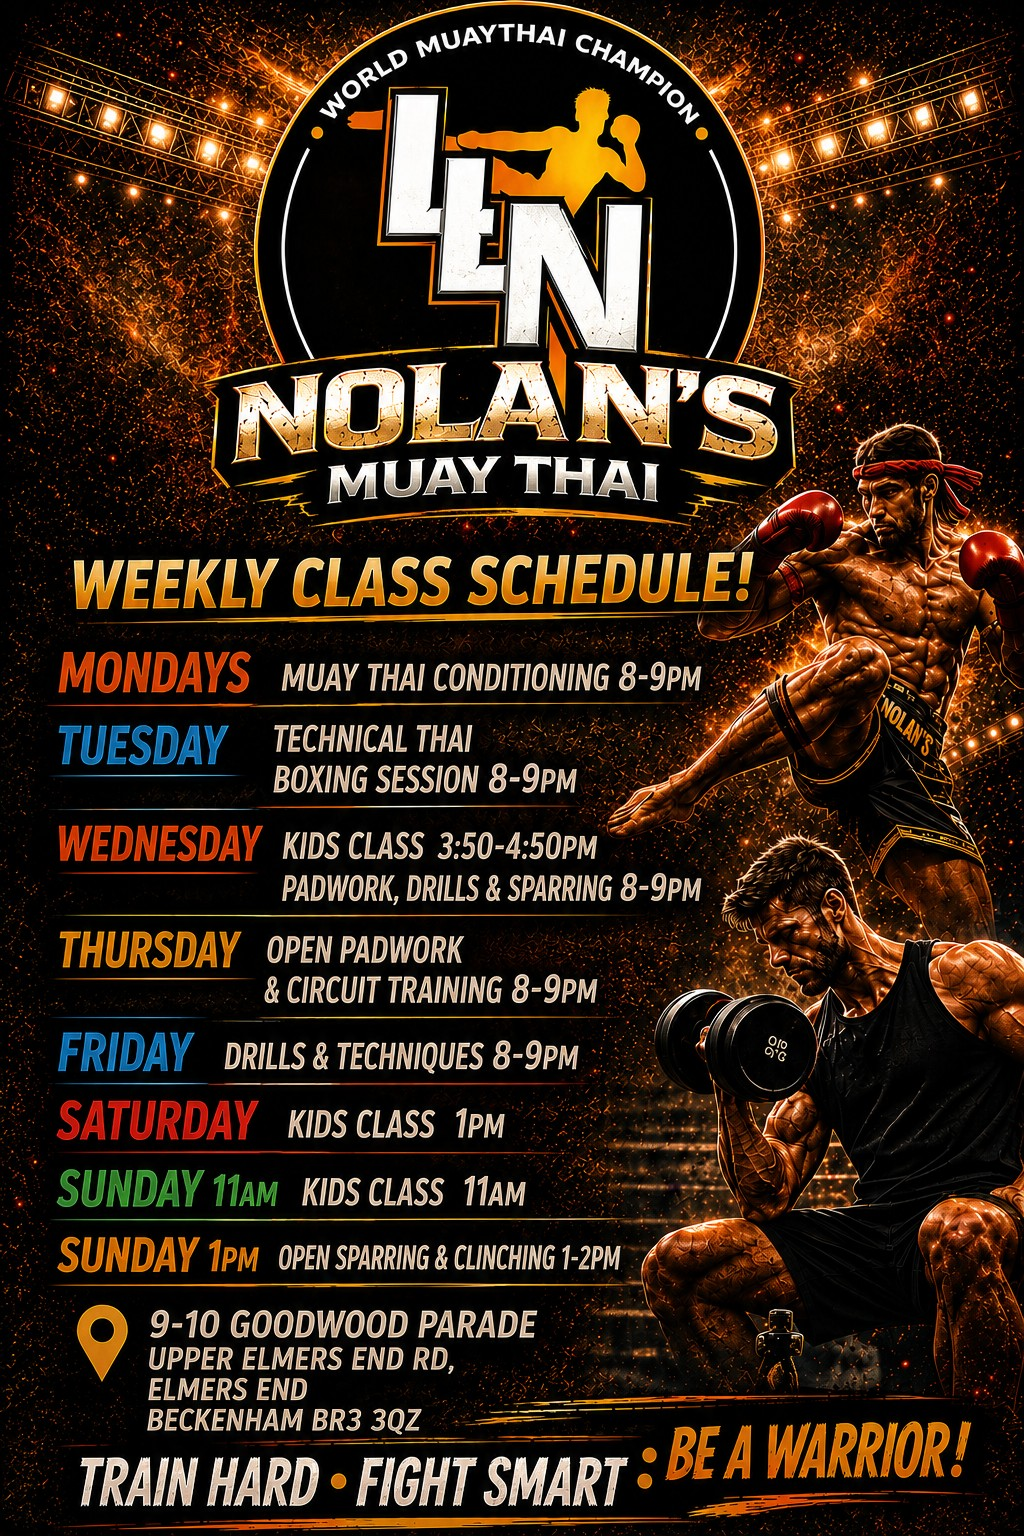
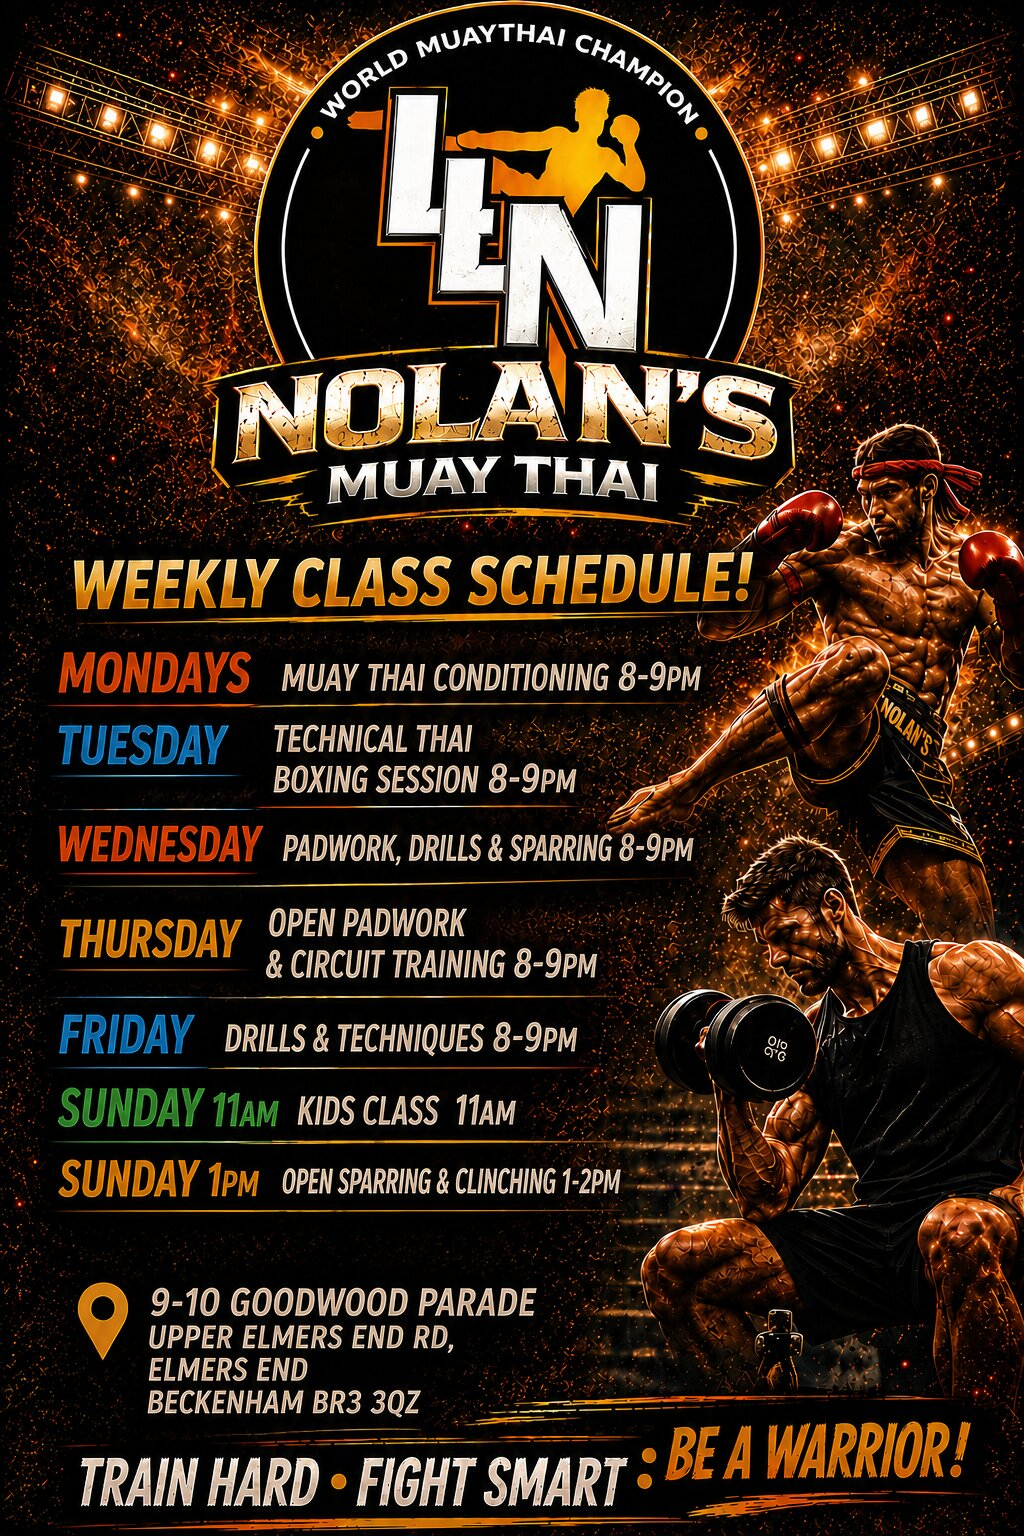
Update weekly schedule poster, drop Wed/Sat kids classes
New timetable poster uploaded by owner; Wednesday 3:50pm and Saturday
1pm kids classes are no longer running and have been removed from the
schedule list, hours tables, openingHoursSpecification schema, FAQ
answer, Course description, and Event schema/timetable on the junior
classes page. Sunday 11am kids class and 1pm open sparring unchanged.

Claude-Session: https://claude.ai/code/session_01CtSXaqRt8o1dHHznE2n9JN

diff --git a/junior-muay-thai.html b/junior-muay-thai.html
@@ -4,7 +4,7 @@
   <meta charset="UTF-8">
   <meta name="viewport" content="width=device-width, initial-scale=1.0">
   <title>Junior Muay Thai Classes for Kids | Beckenham, Bromley &amp; South East London</title>
-  <meta name="description" content="Kids Muay Thai &amp; martial arts classes in Beckenham, South London every Wednesday, Saturday &amp; Sunday. DBS-checked coaches. Serving Bromley &amp; South East London. Discipline &amp; fitness for young fighters.">
+  <meta name="description" content="Kids Muay Thai &amp; martial arts classes in Beckenham, South London every Sunday. DBS-checked coaches. Serving Bromley &amp; South East London. Discipline &amp; fitness for young fighters.">
   <meta name="keywords" content="Muay Thai, martial arts, Thai boxing, combat sports, self defence, Beckenham, South London, Bromley, Penge, Crystal Palace, West Wickham, Orpington, Sydenham, Catford, Shortlands, Chislehurst, Anerley, Elmers End, South East London">
   <meta name="geo.region" content="GB-LND">
   <meta name="geo.placename" content="Beckenham, South London">
@@ -26,14 +26,14 @@
   <meta http-equiv="X-Frame-Options" content="SAMEORIGIN">
   <meta name="referrer" content="strict-origin-when-cross-origin">
   <meta property="og:title" content="Junior Martial Arts &amp; Muay Thai Classes for Kids | Beckenham, South London">
-  <meta property="og:description" content="Kids martial arts &amp; Muay Thai classes in Beckenham every Wednesday, Saturday &amp; Sunday. DBS-checked professional coaches. Self-defence, discipline &amp; fitness for young fighters.">
+  <meta property="og:description" content="Kids martial arts &amp; Muay Thai classes in Beckenham every Sunday. DBS-checked professional coaches. Self-defence, discipline &amp; fitness for young fighters.">
   <meta property="og:image" content="https://nolanmuaythai.com/images/matt-kids-training.jpg">
   <meta property="og:url" content="https://nolanmuaythai.com/junior-muay-thai.html">
   <meta property="og:type" content="website">
   <meta property="og:site_name" content="Nolan Muay Thai">
   <meta name="twitter:card" content="summary_large_image">
   <meta name="twitter:title" content="Junior Martial Arts &amp; Muay Thai Classes for Kids | Beckenham, South London">
-  <meta name="twitter:description" content="Kids martial arts &amp; Muay Thai classes in Beckenham every Wednesday, Saturday &amp; Sunday. DBS-checked professional coaches. Self-defence, discipline &amp; fitness for young fighters.">
+  <meta name="twitter:description" content="Kids martial arts &amp; Muay Thai classes in Beckenham every Sunday. DBS-checked professional coaches. Self-defence, discipline &amp; fitness for young fighters.">
   <meta name="twitter:image" content="https://nolanmuaythai.com/images/matt-kids-training.jpg">
 <!-- Google tag (gtag.js) -->
   <script type="application/ld+json">
@@ -48,54 +48,6 @@
       "byDay": "https://schema.org/Sunday",
       "startTime": "11:00",
       "endTime": "12:00",
-      "repeatFrequency": "P1W"
-    },
-    "location": {
-      "@type": "Place",
-      "name": "Nolan Muay Thai — Goodwood Parade",
-      "address": {"@type": "PostalAddress", "streetAddress": "9-10 Goodwood Parade, Upper Elmers End Rd, Elmers End", "addressLocality": "Beckenham", "postalCode": "BR3 3QZ", "addressCountry": "GB"}
-    },
-    "organizer": {"@type": "Organization", "name": "Nolan Muay Thai", "url": "https://nolanmuaythai.com"},
-    "eventAttendanceMode": "https://schema.org/OfflineEventAttendanceMode",
-    "eventStatus": "https://schema.org/EventScheduled"
-  }
-  </script>
-  <script type="application/ld+json">
-  {
-    "@context": "https://schema.org",
-    "@type": "Event",
-    "name": "Junior Muay Thai Class (Wednesday) — Kids Martial Arts Beckenham",
-    "description": "Midweek kids Muay Thai class for children in Beckenham, South London. DBS-checked coaches. Builds discipline, confidence and fitness.",
-    "eventSchedule": {
-      "@type": "Schedule",
-      "startDate": "2026-08-05",
-      "byDay": "https://schema.org/Wednesday",
-      "startTime": "15:50",
-      "endTime": "16:50",
-      "repeatFrequency": "P1W"
-    },
-    "location": {
-      "@type": "Place",
-      "name": "Nolan Muay Thai — Goodwood Parade",
-      "address": {"@type": "PostalAddress", "streetAddress": "9-10 Goodwood Parade, Upper Elmers End Rd, Elmers End", "addressLocality": "Beckenham", "postalCode": "BR3 3QZ", "addressCountry": "GB"}
-    },
-    "organizer": {"@type": "Organization", "name": "Nolan Muay Thai", "url": "https://nolanmuaythai.com"},
-    "eventAttendanceMode": "https://schema.org/OfflineEventAttendanceMode",
-    "eventStatus": "https://schema.org/EventScheduled"
-  }
-  </script>
-  <script type="application/ld+json">
-  {
-    "@context": "https://schema.org",
-    "@type": "Event",
-    "name": "Junior Muay Thai Class (Saturday) — Kids Martial Arts Beckenham",
-    "description": "Saturday kids Muay Thai class for children in Beckenham, South London. DBS-checked coaches. Builds discipline, confidence and fitness.",
-    "eventSchedule": {
-      "@type": "Schedule",
-      "startDate": "2026-08-01",
-      "byDay": "https://schema.org/Saturday",
-      "startTime": "13:00",
-      "endTime": "14:00",
       "repeatFrequency": "P1W"
     },
     "location": {
@@ -210,16 +162,6 @@
                 </tr>
               </thead>
               <tbody>
-                <tr style="border-bottom:1px solid rgba(255,255,255,.08)">
-                  <td style="padding:12px 20px"><strong>Wednesday</strong></td>
-                  <td style="padding:12px 20px">3:50 – 4:50 PM</td>
-                  <td style="padding:12px 20px;opacity:.85">Kids Muay Thai</td>
-                </tr>
-                <tr style="border-bottom:1px solid rgba(255,255,255,.08)">
-                  <td style="padding:12px 20px"><strong>Saturday</strong></td>
-                  <td style="padding:12px 20px">1:00 – 2:00 PM</td>
-                  <td style="padding:12px 20px;opacity:.85">Kids Muay Thai</td>
-                </tr>
                 <tr>
                   <td style="padding:12px 20px"><strong>Sunday</strong></td>
                   <td style="padding:12px 20px">11:00 AM – 12:00 PM</td>

diff --git a/index.html b/index.html
@@ -59,8 +59,6 @@
     },
     "openingHoursSpecification": [
       {"@type": "OpeningHoursSpecification", "dayOfWeek": ["Monday","Tuesday","Wednesday","Thursday","Friday"], "opens": "20:00", "closes": "21:00"},
-      {"@type": "OpeningHoursSpecification", "dayOfWeek": "Wednesday", "opens": "15:50", "closes": "16:50"},
-      {"@type": "OpeningHoursSpecification", "dayOfWeek": "Saturday", "opens": "13:00", "closes": "14:00"},
       {"@type": "OpeningHoursSpecification", "dayOfWeek": "Sunday", "opens": "11:00", "closes": "14:00"}
     ],
     "sameAs": [
@@ -119,7 +117,7 @@
         "name": "What age are junior classes for?",
         "acceptedAnswer": {
           "@type": "Answer",
-          "text": "Our junior Muay Thai classes run every Sunday from 11AM, every Wednesday from 3:50PM and every Saturday from 1PM. Open sparring &amp; clinching follows on Sundays at 1PM. All our coaches are fully DBS checked."
+          "text": "Our junior Muay Thai classes run every Sunday from 11AM. Open sparring &amp; clinching follows on Sundays at 1PM. All our coaches are fully DBS checked."
         }
       },
       {
@@ -153,40 +151,6 @@
       "byDay": "https://schema.org/Sunday",
       "startTime": "11:00",
       "endTime": "12:00",
-      "repeatFrequency": "P1W"
-    },
-    "location": {
-      "@type": "Place",
-      "name": "Nolan Muay Thai — Goodwood Parade",
-      "address": {
-        "@type": "PostalAddress",
-        "streetAddress": "9-10 Goodwood Parade, Upper Elmers End Rd, Elmers End",
-        "addressLocality": "Beckenham",
-        "postalCode": "BR3 3QZ",
-        "addressCountry": "GB"
-      }
-    },
-    "organizer": {
-      "@type": "Organization",
-      "name": "Nolan Muay Thai",
-      "url": "https://nolanmuaythai.com"
-    },
-    "eventAttendanceMode": "https://schema.org/OfflineEventAttendanceMode",
-    "eventStatus": "https://schema.org/EventScheduled"
-  }
-  </script>
-  <script type="application/ld+json">
-  {
-    "@context": "https://schema.org",
-    "@type": "Event",
-    "name": "Junior Muay Thai Class (Wednesday)",
-    "description": "Midweek kids Muay Thai class for children in Beckenham, South London. DBS-checked coaches. All levels welcome.",
-    "eventSchedule": {
-      "@type": "Schedule",
-      "startDate": "2026-08-05",
-      "byDay": "https://schema.org/Wednesday",
-      "startTime": "15:50",
-      "endTime": "16:50",
       "repeatFrequency": "P1W"
     },
     "location": {
@@ -246,7 +210,7 @@
       "@context": "https://schema.org",
       "@type": "Course",
       "name": "Junior Muay Thai — Kids Classes",
-      "description": "Children's Muay Thai classes in Beckenham. Builds discipline, confidence and fitness. DBS-checked coaches. Wednesdays 3:50pm and Sundays 11am.",
+      "description": "Children's Muay Thai classes in Beckenham. Builds discipline, confidence and fitness. DBS-checked coaches. Sundays 11am.",
       "provider": {
         "@type": "Organization",
         "name": "Nolan Muay Thai",
@@ -407,7 +371,7 @@
 
       <div class="two-col" style="align-items:center">
         <div>
-          <img loading="lazy" src="./images/weekly-class-schedule.jpg" alt="Nolan Muay Thai weekly class schedule, Beckenham — Mon–Fri 8–9pm classes, Wednesday kids 3:50–4:50pm, Saturday 1pm kids class and Sunday 11am kids class" style="border-radius:10px;width:100%;max-width:480px">
+          <img loading="lazy" src="./images/weekly-class-schedule.jpg" alt="Nolan Muay Thai weekly class schedule, Beckenham — Mon–Fri 8–9pm adult classes, Sunday 11am kids class and 1pm open sparring &amp; clinching" style="border-radius:10px;width:100%;max-width:480px">
         </div>
         <div>
           <h3 style="color:#cd853f;margin-bottom:16px;font-size:1.3rem">Weekly Schedule</h3>
@@ -415,10 +379,8 @@
             <li>🟠 <strong>Monday</strong> — Muay Thai Conditioning · 8–9pm</li>
             <li>🟢 <strong>Tuesday</strong> — Technical Thai Boxing · 8–9pm</li>
             <li>🔵 <strong>Wednesday</strong> — Padwork, Drills &amp; Sparring · 8–9pm</li>
-            <li>🟣 <strong>Wednesday 3:50pm</strong> — Kids Class · 3:50–4:50pm</li>
             <li>🟡 <strong>Thursday</strong> — Open Padwork &amp; Circuit Training · 8–9pm</li>
             <li>🔴 <strong>Friday</strong> — Drills &amp; Techniques · 8–9pm</li>
-            <li>🟣 <strong>Saturday 1pm</strong> — Kids Class · 1–2pm</li>
             <li>🟣 <strong>Sunday 11am</strong> — Kids Class</li>
             <li>🟣 <strong>Sunday 1pm</strong> — Open Sparring &amp; Clinching</li>
           </ul>
@@ -557,8 +519,6 @@
           <h3>Gym Hours</h3>
           <table class="hours-table">
             <tr><td>Monday – Friday</td><td>20:00 – 21:00</td></tr>
-            <tr><td>Wednesday (Kids)</td><td>15:50 – 16:50</td></tr>
-            <tr><td>Saturday (Kids)</td><td>13:00 – 14:00</td></tr>
             <tr><td>Sunday</td><td>11:00 – 14:00</td></tr>
           </table>
           <div class="map-container">

diff --git a/contact.html b/contact.html
@@ -58,8 +58,6 @@
     },
     "openingHoursSpecification": [
       {"@type": "OpeningHoursSpecification", "dayOfWeek": ["Monday","Tuesday","Wednesday","Thursday","Friday"], "opens": "20:00", "closes": "21:00"},
-      {"@type": "OpeningHoursSpecification", "dayOfWeek": "Wednesday", "opens": "15:50", "closes": "16:50"},
-      {"@type": "OpeningHoursSpecification", "dayOfWeek": "Saturday", "opens": "13:00", "closes": "14:00"},
       {"@type": "OpeningHoursSpecification", "dayOfWeek": "Sunday", "opens": "11:00", "closes": "14:00"}
     ],
     "sameAs": [
@@ -190,10 +188,9 @@
           <table class="hours-table">
             <tr><td>Monday</td><td>20:00 – 21:00</td></tr>
             <tr><td>Tuesday</td><td>20:00 – 21:00</td></tr>
-            <tr><td>Wednesday</td><td>15:50 – 16:50 (Kids) · 20:00 – 21:00</td></tr>
+            <tr><td>Wednesday</td><td>20:00 – 21:00</td></tr>
             <tr><td>Thursday</td><td>20:00 – 21:00</td></tr>
             <tr><td>Friday</td><td>20:00 – 21:00</td></tr>
-            <tr><td>Saturday</td><td>13:00 – 14:00 (Kids)</td></tr>
             <tr><td>Sunday</td><td>11:00 – 14:00</td></tr>
           </table>
 
